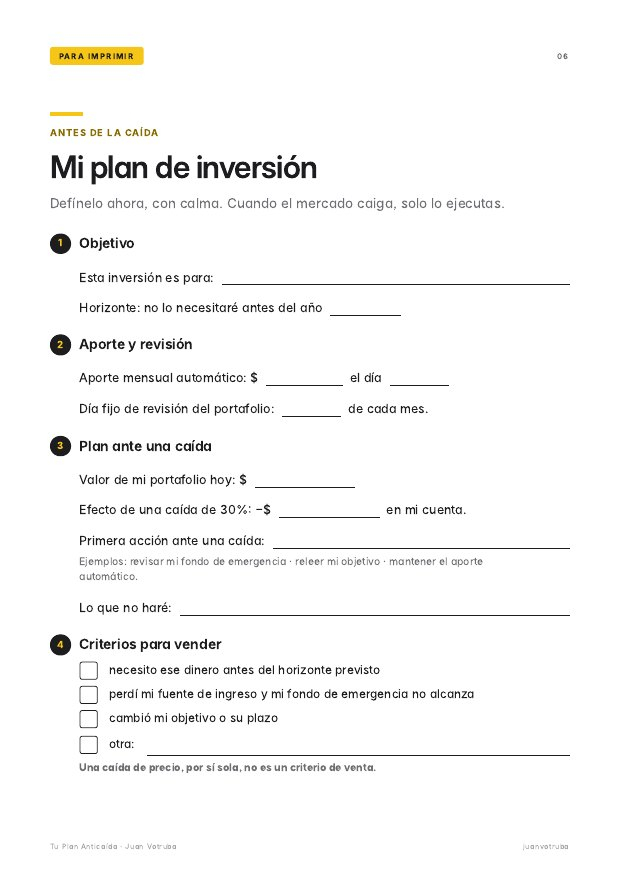
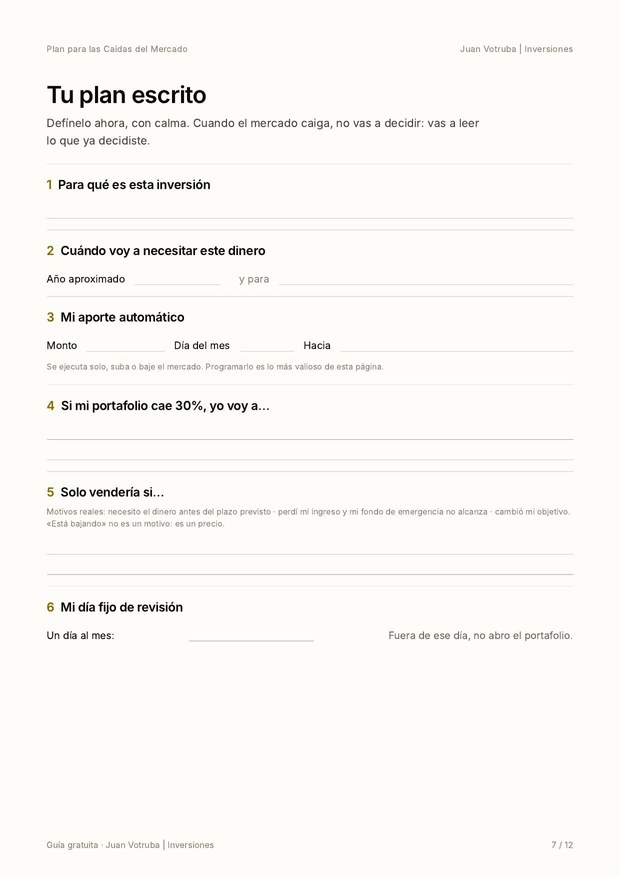
Add files via upload

diff --git a/index.html b/index.html
@@ -3,11 +3,11 @@
 <head>
 <meta charset="utf-8">
 <meta name="viewport" content="width=device-width, initial-scale=1">
-<title>Tu Plan Anticaída · PDF gratis de Juan Votruba</title>
-<meta name="description" content="Qué hacer antes, durante y después de una caída del mercado: fondo de emergencia, plan de inversión, criterios para vender y tarjeta de decisión. PDF gratis.">
+<title>Plan para las Caídas del Mercado · Guía gratis de Juan Votruba</title>
+<meta name="description" content="Decide qué harás antes de que caiga la bolsa: cómo reaccionas tú, tu fondo de emergencia, tu plan escrito, tu sistema para cuando cae y una tarjeta de decisión. Guía gratis en PDF.">
 <meta property="og:type" content="website">
-<meta property="og:title" content="Tu Plan Anticaída">
-<meta property="og:description" content="Decide en calma qué harás cuando el mercado caiga. PDF gratis para llenar e imprimir.">
+<meta property="og:title" content="Plan para las Caídas del Mercado">
+<meta property="og:description" content="Decide en calma qué harás cuando el mercado caiga. Guía gratis de 20 minutos para completar e imprimir.">
 <meta property="og:url" content="https://anticaida.juanvotruba.com/">
 <meta property="og:image" content="https://anticaida.juanvotruba.com/avatar.png">
 <link rel="icon" href="avatar.png">
@@ -25,7 +25,7 @@
 <div class="brand">
 <b>Juan Votruba</b>
 <span>Inversiones y libertad financiera</span>
-<i>Tu Plan Anticaída</i>
+<i>Plan para las Caídas del Mercado</i>
 </div>
 </div>
 </header>
@@ -34,9 +34,9 @@
 <section class="hero">
 <div class="wrap">
 <div class="hero-l">
-<div class="eyebrow">PDF gratis · Cuaderno de trabajo · 11 páginas</div>
+<div class="eyebrow">Guía gratis · 20 minutos · PDF de 12 páginas</div>
 <h1>Decide qué harás cuando cae la bolsa, antes de que caiga.</h1>
-<p class="lead">Qué hacer antes, durante y después de una caída del mercado. Un cuaderno para llenar con calma: tu fondo de emergencia, tu plan de inversión, tus criterios para vender y una tarjeta de decisión para tener a mano.</p>
+<p class="lead">Una guía para completar en 20 minutos, con calma: cómo reaccionas tú ante una caída, tu fondo de emergencia, tu plan escrito, tu sistema para cuando cae y una tarjeta de decisión para tener a mano.</p>
 
 <form class="signup" data-kit action="https://app.kit.com/forms/10223295/subscriptions" method="post">
 <label class="sr" for="email-hero">Tu email</label>
@@ -57,23 +57,23 @@
 <img class="sheet back" src="pagina-plan.jpg" alt="" width="620" height="877">
 <img class="sheet front" src="portada.jpg" alt="" width="620" height="877">
 </div>
-<div class="cap">Vista previa del PDF.</div>
+<div class="cap">Vista previa de la guía.</div>
 </div>
 </div>
 </section>
 
 <section class="band-c">
 <div class="wrap">
-<h2>Lo que vas a llenar</h2>
+<h2>Lo que vas a completar</h2>
 <div class="cards six">
-<div class="cardx"><small>01</small><h3>Las caídas son normales</h3><p>Cada cuánto llega una caída de 5%, 10%, 15% y 20%, y qué pasó 10 años después de invertir en el máximo antes de las peores.</p></div>
-<div class="cardx"><small>02</small><h3>La trampa de esperar</h3><p>Cinco formas de invertir $2,000 al año durante 20 años. Esperar en efectivo, o en un depósito a plazo, terminó peor que el peor timing.</p></div>
-<div class="cardx"><small>03</small><h3>Tu fondo de emergencia</h3><p>Cuántos meses de gastos cubre hoy y cuántos necesitas para no vender cuando el mercado baja.</p></div>
-<div class="cardx"><small>04</small><h3>Mi plan de inversión</h3><p>Tu objetivo, tu aporte automático, tu primera acción ante una caída y tus criterios para vender, definidos con calma.</p></div>
-<div class="cardx"><small>05</small><h3>Protocolo ante una caída</h3><p>Qué hacer en las primeras 72 horas, la primera semana, mientras dura y cuando pasa.</p></div>
-<div class="cardx"><small>06</small><h3>Antes de vender</h3><p>Un filtro de tres pasos: escribe el motivo, contrástalo con tus criterios y espera 72 horas.</p></div>
-<div class="cardx"><small>07</small><h3>Tarjeta de decisión</h3><p>Para recortar y llevar en la billetera: tres preguntas al frente y tus criterios para vender al reverso.</p></div>
-<div class="cardx"><small>08</small><h3>Tu checklist</h3><p>Marca lo que ya hiciste. Cada casilla vacía es tu tarea antes de la próxima caída.</p></div>
+<div class="cardx"><small>01</small><h3>Las caídas son normales</h3><p>Cada cuánto cae el S&amp;P 500 y qué pasó 10 años después de invertir en el máximo, antes de las cinco peores caídas.</p></div>
+<div class="cardx"><small>02</small><h3>Esperar también cuesta</h3><p>Cinco formas de invertir $2,000 al año durante 20 años, y cuánto cuesta perderse los mejores días del mercado.</p></div>
+<div class="cardx"><small>03</small><h3>Cómo reaccionas tú</h3><p>Marca qué harías si tu portafolio cae 10%, 20%, 30% o 50%, y descubre si es más agresivo de lo que puedes sostener.</p></div>
+<div class="cardx"><small>04</small><h3>Tu fondo de emergencia</h3><p>Tus gastos esenciales, cuántos meses necesitas según qué tan estable es tu ingreso y cuánto te falta.</p></div>
+<div class="cardx"><small>05</small><h3>Tu plan escrito</h3><p>Para qué es tu inversión, tu aporte automático, qué harás si cae 30% y cuándo sí venderías.</p></div>
+<div class="cardx"><small>06</small><h3>Tu sistema cuando cae</h3><p>Qué tienes, en qué tramos entras, cómo revisas la salud de lo que tienes y cómo mantienes el balance comprando.</p></div>
+<div class="cardx"><small>07</small><h3>Filtro y tarjeta de decisión</h3><p>Una pausa de 72 horas y tres preguntas antes de vender, en una tarjeta para recortar y tener a la vista.</p></div>
+<div class="cardx"><small>08</small><h3>Tu lista final</h3><p>Ocho casillas para confirmar que tu plan está listo antes de la próxima caída.</p></div>
 </div>
 </div>
 </section>
@@ -84,7 +84,7 @@
 <div class="about-t">
 <div class="eyebrow">Quién lo hizo</div>
 <h2>Soy Juan. Mi portafolio también cae. Por eso armé este plan.</h2>
-<p>Invierto activamente con mi propio dinero en acciones y ETFs de EE.UU. Mi portafolio llegó a caer cerca de 30% y no vendí. Armé este cuaderno con datos de Schwab y Capital Group, verificados en su fuente, para que la próxima caída te encuentre con las decisiones ya tomadas.</p>
+<p>Invierto activamente con mi propio dinero en acciones y ETFs de EE.UU. Mi portafolio llegó a caer cerca de 30% y no vendí. Armé esta guía con datos de Capital Group, Schwab y Hartford Funds, verificados en su fuente, para que la próxima caída te encuentre con las decisiones ya tomadas.</p>
 <a class="lnk" href="https://www.youtube.com/@juanvotruba">Ver el canal de YouTube →</a>
 </div>
 </div>
@@ -93,7 +93,7 @@
 <section class="cta">
 <div class="wrap">
 <h2>La próxima caída va a llegar. Que te encuentre con un plan.</h2>
-<p>PDF gratis. Lo recibes al confirmar tu correo.</p>
+<p>Guía gratis en PDF. La recibes al confirmar tu correo.</p>
 <form class="signup" data-kit action="https://app.kit.com/forms/10223295/subscriptions" method="post">
 <label class="sr" for="email-cta">Tu email</label>
 <input id="email-cta" type="email" name="email_address" placeholder="tu@email.com" autocomplete="email" required>

diff --git a/gracias.html b/gracias.html
@@ -4,7 +4,7 @@
 <meta charset="utf-8">
 <meta name="viewport" content="width=device-width, initial-scale=1">
 <meta name="robots" content="noindex">
-<title>Revisa tu correo · Tu Plan Anticaída</title>
+<title>Revisa tu correo · Plan para las Caídas del Mercado</title>
 <link rel="icon" href="avatar.png">
 <link rel="preconnect" href="https://fonts.googleapis.com">
 <link rel="preconnect" href="https://fonts.gstatic.com" crossorigin>
@@ -16,7 +16,7 @@
 <div class="wrap">
 <div class="avatar"><img src="avatar.png" alt="Juan Votruba" width="96" height="96"></div>
 <div class="bar"></div>
-<div class="brand"><b>Juan Votruba</b><span>Inversiones y libertad financiera</span><i>Tu Plan Anticaída</i></div>
+<div class="brand"><b>Juan Votruba</b><span>Inversiones y libertad financiera</span><i>Plan para las Caídas del Mercado</i></div>
 </div>
 </header>
 <main class="page">
@@ -25,7 +25,7 @@
 <p>Te acabo de enviar un mensaje. Hasta que lo confirmes, no puedo enviarte el PDF.</p>
 <div class="steps">
 <div class="step"><small>01</small><p>Abre el correo de <strong>finanzas@juanvotruba.com</strong>.</p></div>
-<div class="step"><small>02</small><p>Pulsa el botón <strong>Descarga tu Plan Anticaída</strong>. Con ese clic confirmas tu correo y se descarga el PDF.</p></div>
+<div class="step"><small>02</small><p>Pulsa el botón <strong>Descarga tu guía</strong>. Con ese clic confirmas tu correo y se descarga el PDF.</p></div>
 <div class="step"><small>03</small><p>Si no llega en 2 minutos, revisa <strong>Spam</strong> o <strong>Promociones</strong>. Marca el correo como seguro para recibir también Lunes en Wall Street en tu bandeja principal.</p></div>
 </div>
 <p>Mientras tanto, puedes ver cómo explico estos temas en el canal.</p>
